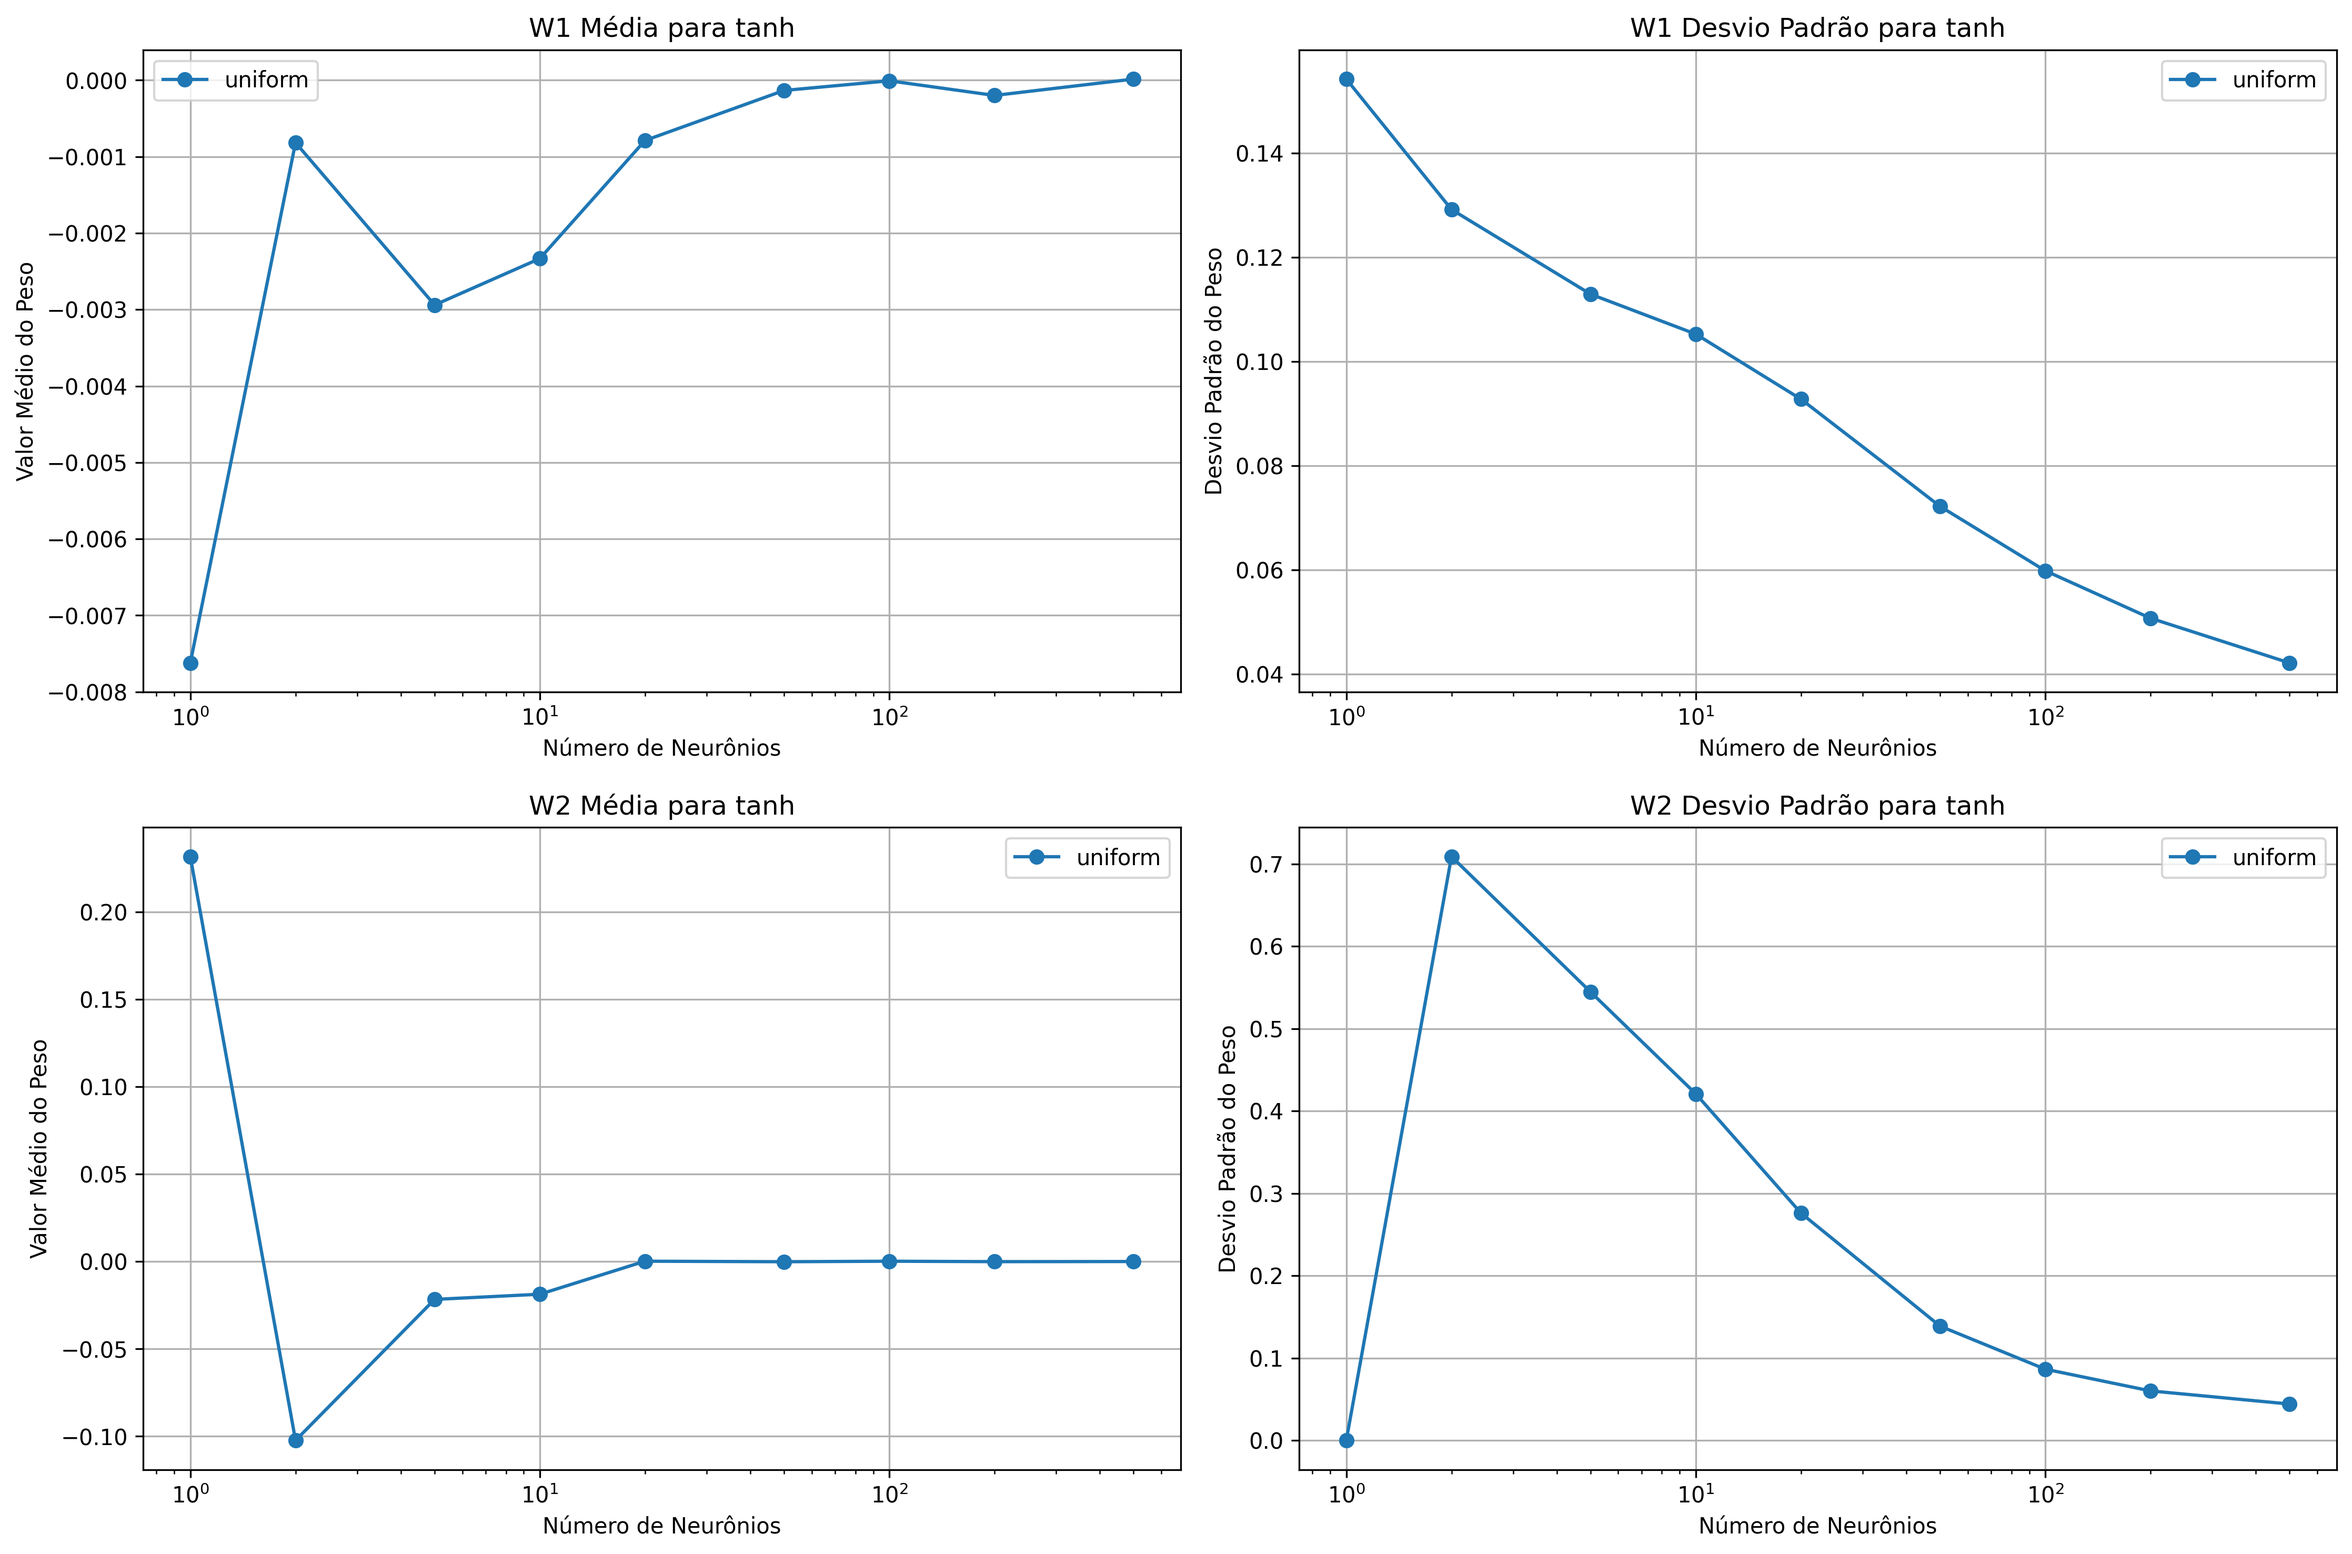
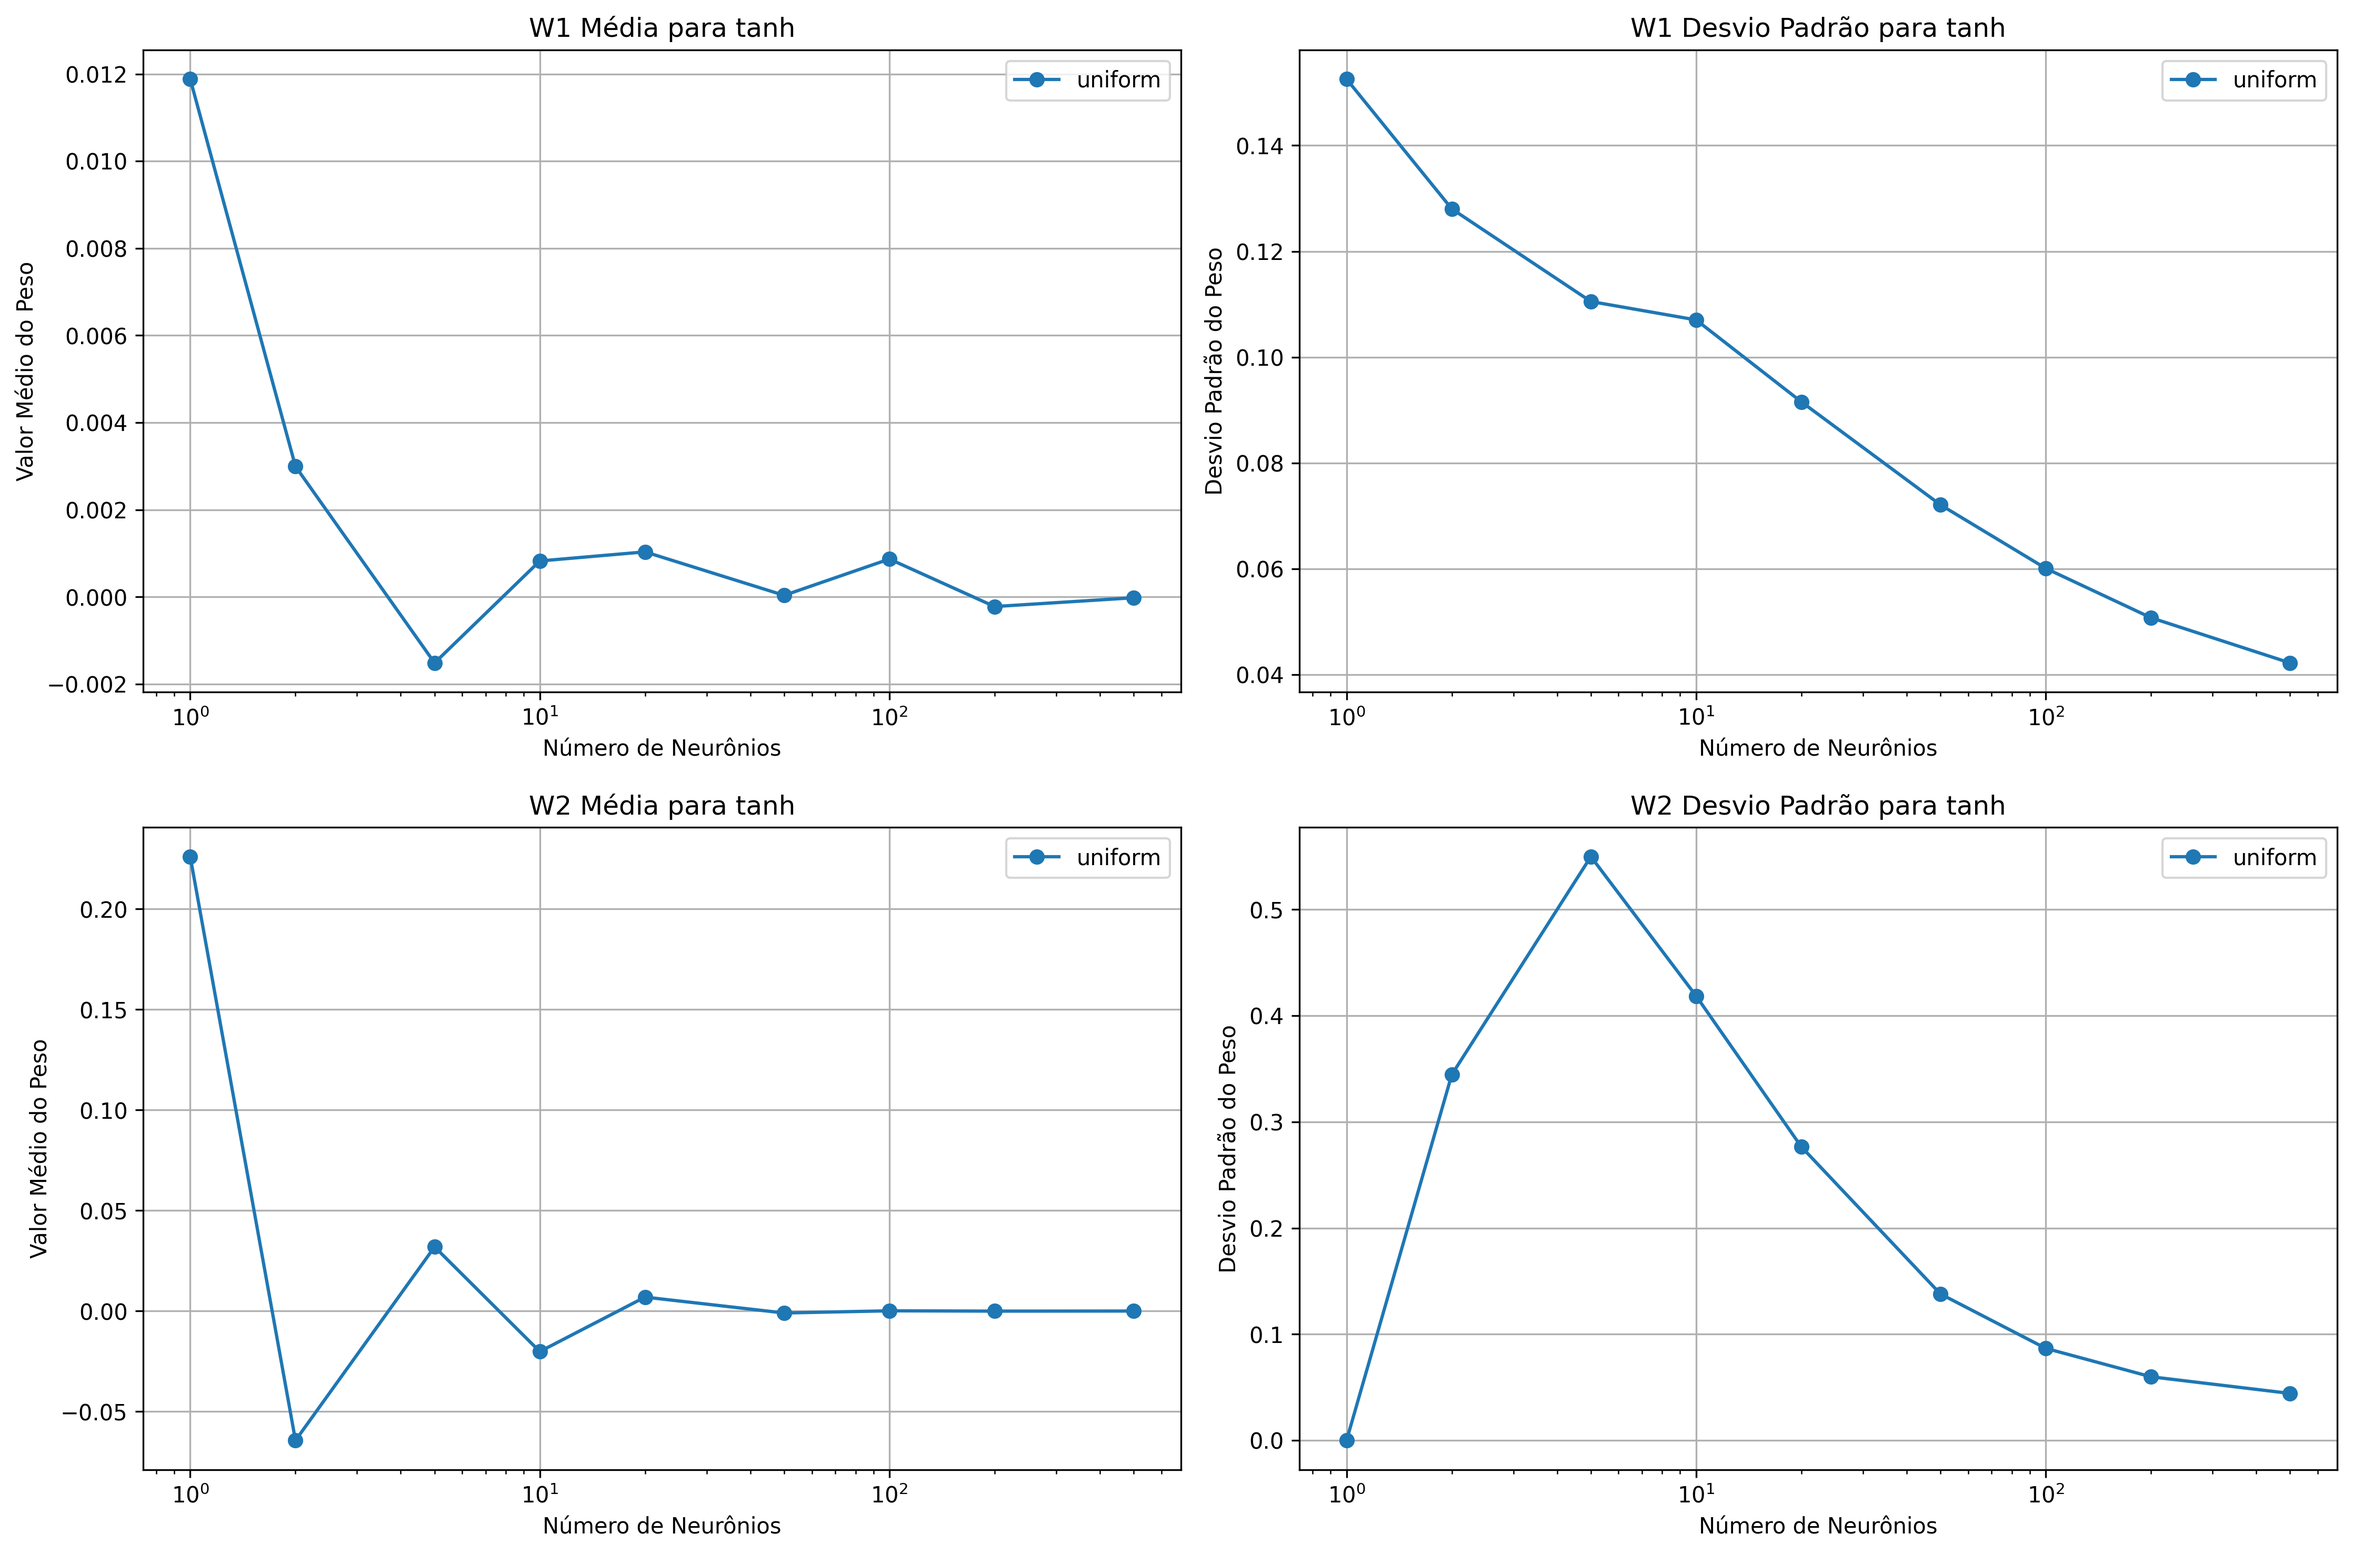
uniform PA

diff --git a/MLP_PA.py b/MLP_PA.py
@@ -15,40 +15,39 @@ print(f"Usando dispositivo: {device}")
 
 # ====================== Funções de Rewiring PA ==============================
 def rewiring_torch(weights, seed=None):
-    dimensions = weights.shape
     if seed:
-        torch.manual_seed(seed)
-    
-    st = torch.zeros(dimensions[1], device=weights.device)
-    for neuron in range(1, dimensions[0]):
-        st = st + weights[neuron - 1]
-        P = st + torch.abs(torch.min(st)) + 1
-        P = P / torch.sum(P)
-        
-        # Criar distribuição multinomial para amostragem
-        targets = torch.multinomial(P, dimensions[1], replacement=False)
-        
-        edges_to_rewire = torch.argsort(weights[neuron])
-        weights[neuron, targets] = weights[neuron, edges_to_rewire]
+        rng = np.random.default_rng(seed)
+    else:
+        rng = np.random.default_rng()        
+    st = torch.zeros(weights.size(1), device=weights.device)
+    with torch.no_grad():
+        dimensions = weights.shape 
+        for neuron in range(1, dimensions[0]):  
+            st = st + weights[neuron - 1]
+            P = st + torch.abs(torch.min(st)) + 1  # garantir que não haja valores zero
+            P = P / torch.sum(P)
+            targets = rng.choice(
+                a=[i for i in range(dimensions[1])], 
+                replace=False,
+                size=dimensions[1],
+                p=P.cpu().detach().numpy()
+            ) 
+            edges_to_rewire = torch.argsort(weights[neuron])
+            weights[neuron, targets] = weights[neuron, edges_to_rewire]                
     return weights
 
-def PA_rewiring_torch(weights, seed=None):
-    if weights.ndim < 2:
+def PA_rewiring_torch(weights, seed=None): 
+    if weights.ndimension() < 2:
         raise ValueError("Apenas tensores 2D ou superiores são suportados")
-    
-    original_shape = weights.shape
-    output_neurons = weights.shape[0]
-    input_neurons = weights.numel() // output_neurons
-    
-    weights_out = weights.view((output_neurons, input_neurons)).clone()
-    weights_out = rewiring_torch(weights_out, seed)  # Rewiring nas linhas
-    
-    # Rewiring nas colunas (transpor, rewiring, transpor de volta)
-    weights_out_transposed = weights_out.t()
-    weights_out_transposed = rewiring_torch(weights_out_transposed, seed)
-    weights_out = weights_out_transposed.t()
-    
-    return weights_out.view(original_shape)
+    with torch.no_grad():  
+        output_neurons = weights.size(0)
+        input_neurons = weights.numel() // output_neurons    
+        dimensions = weights.shape             
+        weights = weights.reshape((output_neurons, input_neurons))
+        rewiring_torch(weights, seed)   
+        rewiring_torch(torch.transpose(weights, 0, 1), seed)        
+        weights = weights.reshape((dimensions))          
+    return weights  # retornar tensor reconfigurado
 # =============================================================================
 
 # Carregar dataset MNIST
@@ -75,7 +74,7 @@ activations = {
     'sigmoid': nn.Sigmoid(),
     'tanh': nn.Tanh()
 }
-n_runs = 10
+n_runs = 5
 batch_size = 60
 epochs = 1
 
